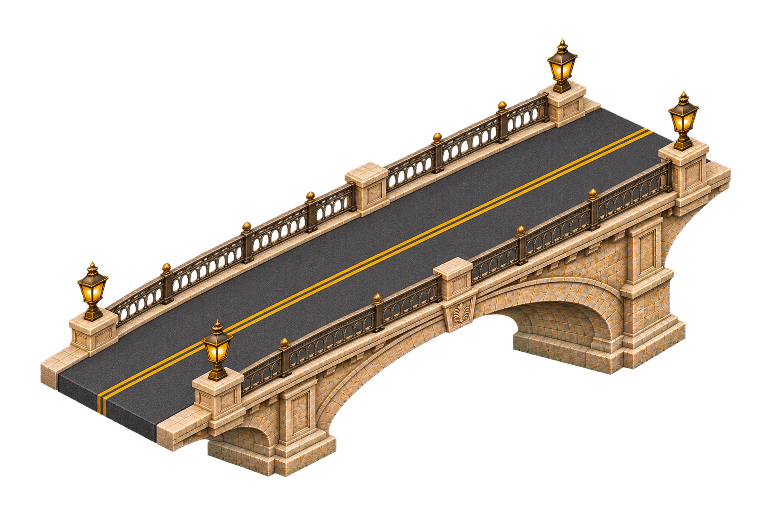
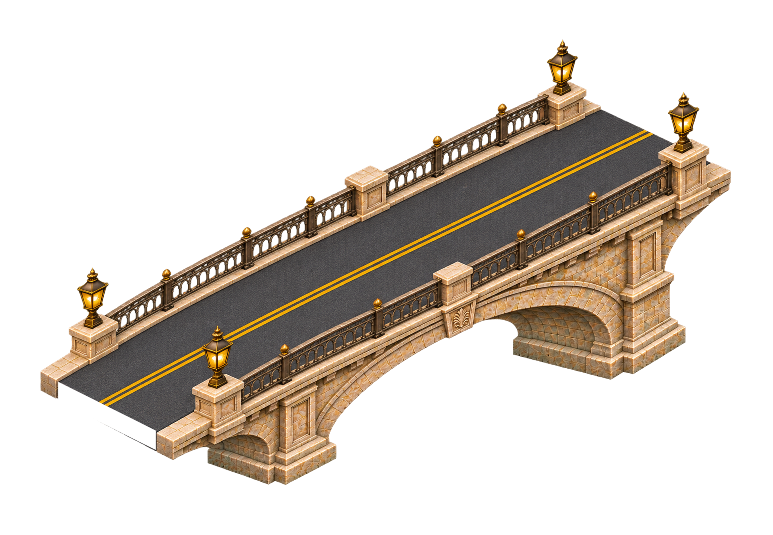
fix(city): connect painted bridge decks with sloped approaches

diff --git a/src/renderers/city-bridges.ts b/src/renderers/city-bridges.ts
@@ -1,5 +1,45 @@
 import { sampleCityBridge, type CityBridge } from './city-road-network';
 
+export const CITY_PAINTED_BRIDGE_ELEVATION=.18;
+export const CITY_PAINTED_BRIDGE_APPROACH=.8;
+
+/** 引桥从年度大道外侧路缘起坡，终点与精绘桥面的高度及轴线一致。 */
+export function createCityBridgeApproachPainter(bridges:readonly CityBridge[]):(context:CanvasRenderingContext2D)=>void {
+  const commands:{path:Path2D;color:string;width?:number}[]=[];
+  for(const bridge of bridges)for(const near of [false,true]){
+    const [x,z]=near?bridge.to:bridge.from;
+    const point=(t:number,offset:number,ground=false):[number,number]=>{
+      const along=near?z+t*CITY_PAINTED_BRIDGE_APPROACH:z+(t-1)*CITY_PAINTED_BRIDGE_APPROACH;
+      const blend=t*t*(3-2*t),height=ground?0:CITY_PAINTED_BRIDGE_ELEVATION*(near?1-blend:blend);
+      // 原画车行面略窄于季度路，坡道同时缓和车幅，避免接缝外露尖角。
+      const across=offset*(near?.875+.125*t:1-.125*t);
+      return [(x+across-along)*.5,(x+across+along)*.25-height*.5];
+    };
+    const times=[0,.125,.25,.375,.5,.625,.75,.875,1];
+    const path=(points:readonly [number,number][],color:string,width?:number)=>{
+      const shape=new Path2D();points.forEach((p,i)=>i?shape.lineTo(...p):shape.moveTo(...p));if(width===undefined)shape.closePath();commands.push({path:shape,color,width});
+    };
+    // 挡墙先于桥面，前侧浅石材分缝沿真实坡度收口。
+    for(const offset of [-.56,.56]){
+      path([...times.map(t=>point(t,offset,true)),...[...times].reverse().map(t=>point(t,offset))],offset>0?'#aa977d':'#8d8370');
+      for(const t of [.25,.5,.75])path([point(t,offset,true),point(t,offset)],'#d2bfa1',.009);
+    }
+    const deck=(left:number,right:number,color:string)=>path([...times.map(t=>point(t,left)),...[...times].reverse().map(t=>point(t,right))],color);
+    deck(-.56,.56,'#c5b397');deck(-.4,.4,'#626d68');
+    for(const offset of [-.49,.49])path(times.map(t=>point(t,offset)),'#e4d5bb',.045);
+    for(const offset of [-.355,.355])path(times.map(t=>point(t,offset)),'#e1dfd0',.013);
+    for(const offset of [-.025,.025])path(times.map(t=>point(t,offset)),'#d6b96d',.014);
+  }
+  return context=>{
+    context.save();context.setLineDash([]);context.lineJoin='round';
+    for(const {path,color,width}of commands){
+      if(width===undefined){context.fillStyle=color;context.fill(path)}
+      else {context.strokeStyle=color;context.lineWidth=width;context.stroke(path)}
+    }
+    context.restore();
+  };
+}
+
 /** 两端落在实际路口中心；季度轴不同时缓和过渡，桥头方向仍沿道路。 */
 export function createCityBridgePainter(bridges: readonly CityBridge[]): (context: CanvasRenderingContext2D) => void {
   const paint: ((context: CanvasRenderingContext2D) => void)[] = [];

diff --git a/src/renderers/city-organic-layout.ts b/src/renderers/city-organic-layout.ts
@@ -5,6 +5,7 @@ import { createCityRoadLabels, cityRoadLabelLength, type CityRoadLabel } from '.
 import { type CityVehicle, type CityVehicleKind } from './city-vehicles';
 import { planCityTransport, type CityTrafficSignal } from './city-transport';
 import type { CityBridge } from './city-road-network';
+import { createCityBridgeApproachPainter, CITY_PAINTED_BRIDGE_APPROACH } from './city-bridges';
 import { createCityRoadPainter, planRoadGeometry, type CityRoadRoute, type CityRoadJunction, type RoadPoint } from './city-roads';
 
 const DAY = 86400000;
@@ -224,7 +225,7 @@ export function planOrganicCity(days: readonly DailyContribution[], threshold: n
       const offset=(.2+.4*(seed%(road.lanes/2)))*direction;
       const x=a[0]+dx*fraction+dz/length*offset,z=a[1]+dz*fraction-dx/length*offset;
       if(junctions.some(j=>Math.hypot(j.x-x,j.z-z)<j.radius+.8)||
-        bridges.some(bridge=>Math.abs(x-bridge.from[0])<.8&&z>bridge.from[1]-.6&&z<bridge.to[1]+.6)||
+        bridges.some(bridge=>Math.abs(x-bridge.from[0])<.8&&z>bridge.from[1]-CITY_PAINTED_BRIDGE_APPROACH-.6&&z<bridge.to[1]+CITY_PAINTED_BRIDGE_APPROACH+.6)||
         labels.some(label=>Math.hypot(label.x-x,label.z-z)<cityRoadLabelLength(label.text,label.kind)/2+.65)||
         vehicles.some(v=>Math.hypot(v.x-x,v.z-z)<1.1))continue;
       vehicles.push({x,z,angle:Math.atan2(dz,dx)+(direction===-1?Math.PI:0),kind:kinds[(seed+(direction===1?0:1))%4],color:colors[seed%colors.length]});
@@ -381,6 +382,7 @@ export function createOrganicGround(plan: OrganicCity): (context: CanvasRenderin
   });
   const paintLabels=createCityRoadLabels(plan.labels);
   const paintRoads=createCityRoadPainter(plan.scene.roadNetwork.roads,plan.scene.roadNetwork.junctions);
+  const paintApproaches=createCityBridgeApproachPainter(plan.scene.roadNetwork.bridges);
   const water=plan.rivers.map(({left,right,z,top,bottom})=>{
     const half=(bottom-top)/2-.8,samples=Array.from({length:Math.ceil((right-left)*4)+1},(_,i)=>{
       const x=left+(right-left)*i/Math.ceil((right-left)*4),wave=.06*Math.sin(x*1.7+z);
@@ -416,6 +418,7 @@ export function createOrganicGround(plan: OrganicCity): (context: CanvasRenderin
       context.fillStyle='#b2b49a';context.fill(river.stones);
     }
     paintRoads(context);
+    paintApproaches(context);
     paintLabels(context);
     context.restore();
   };

diff --git a/src/renderers/city-view.ts b/src/renderers/city-view.ts
@@ -14,7 +14,7 @@ import { createCityOutskirtsPainter, CITY_OUTSKIRT_MARGIN, CITY_OUTSKIRT_IDS } f
 import type { LandscapeView, LandscapeViewport } from './types';
 
 const project=(x:number,z:number):[number,number]=>[(x-z)*.5,(x+z)*.25];
-export interface CitySceneItem { parcel?:CityParcel; id:string; factor:number; x:number; z:number; w:number; d:number; flat:boolean }
+export interface CitySceneItem { parcel?:CityParcel; id:string; factor:number; x:number; z:number; w:number; d:number; flat:boolean; elevation?:number }
 export interface CityScene { weekly:WeeklyCity; layout:CityLayout; items:CitySceneItem[]; keys:string[]; parkStarts:number[]; width:number; depth:number; roadNetwork:CityRoadNetwork }
 
 /** 数据/占地与素材选择只在创建时确定，观看缩放不改变城市。 */
@@ -72,7 +72,7 @@ export function createCityView(scene:CityScene,images:CityImages,previouslyRevea
     if(progressive&&!sprite)return [];
     const offsetX=(item.w-sprite.nativeWidth*item.factor)/2,offsetZ=(item.d-sprite.nativeDepth*item.factor)/2;
     const [x,y]=project(item.x+offsetX,item.z+offsetZ);
-    const left=x+sprite.left*item.factor,top=y+sprite.top*item.factor;
+    const left=x+sprite.left*item.factor,top=y+sprite.top*item.factor-(item.elevation??0)*.5;
     // 所有成员已在本批真实days中，融合地块按首个成员进入呈现前缀时整体出现。
     return [{item,sprite,left,top,width:sprite.width*item.factor,height:sprite.height*item.factor,groundY:project(item.x+item.w/2,item.z+item.d/2)[1],after:progressive&&item.parcel?Math.min(...item.parcel.indices)+1:0}];
   }).sort((a,b)=>a.groundY-b.groundY||a.left-b.left);

diff --git a/src/renderers/city-transport.ts b/src/renderers/city-transport.ts
@@ -2,6 +2,7 @@ import catalog from './city-baked-catalog.json';
 import type { CitySceneItem } from './city-view';
 import type { CityVehicle } from './city-vehicles';
 import type { CityBridge } from './city-road-network';
+import { CITY_PAINTED_BRIDGE_ELEVATION } from './city-bridges';
 
 export interface CityTrafficSignal {x:number;z:number;heads:('x'|'z')[]}
 
@@ -18,6 +19,6 @@ export function planCityTransport(vehicles:readonly CityVehicle[],signals:readon
       return item(`transport-${vehicle.kind}-${['xp','zp','xm','zm'][angle]}`,vehicle.x,vehicle.z);
     }),
     ...signals.map(signal=>item(`transport-signal-${signal.heads.length>1?'dual':signal.heads[0]}`,signal.x,signal.z)),
-    ...bridges.map(bridge=>item('transport-bridge-arch',(bridge.from[0]+bridge.to[0])/2,(bridge.from[1]+bridge.to[1])/2)),
+    ...bridges.map(bridge=>({...item('transport-bridge-arch',(bridge.from[0]+bridge.to[0])/2,(bridge.from[1]+bridge.to[1])/2),elevation:CITY_PAINTED_BRIDGE_ELEVATION})),
   ];
 }

diff --git a/docs/reports/CITY-ORGANIC-LAYOUT.md b/docs/reports/CITY-ORGANIC-LAYOUT.md
@@ -1,7 +1,37 @@
 # 城市轮廓与长期空档分城候选报告
 
 
-## 2026-11-06 完整季度路名与精绘交通设施（最新，本机待浏览器验收）
+## 2026-11-06 桥头标定与双端引桥（最新，本机待浏览器验收）
+
+本轮修复用户看到的桥路接口和引桥缺失问题，沿用[PR #63](https://github.com/wxy/CodeYears/pull/63)，前序fee56d4；本机组合保留PR #65的680b14e。前轮“桥头已接齐”的离线判断不足，不作为本轮通过证据。
+
+### 原因与修改
+
+旧代码只将PNG两个锚点贴到地面道路轴，没有桥面抬升或引桥；近端锚点(233,650)还落在原图车行面竖直封口上，而不是上沿。放大原始1774×887桥图后，重新选取双黄线在桥面上沿转折间的(230,638)。原画向下延伸的封口会遮住坡道，当前在素材烘焙时按nearEndFace四点裁去车行面封口，保留侧墙、石材与栏杆；精绘源PNG未改写，坐标与裁切集中在正式calibration.json。
+
+桥场景项明确抬升0.18世界单位，精绘PNG和引桥共用同一高度。两端各0.8格引桥从年度大道外侧路缘起坡，连接抬升的桥面；三次缓和曲线使两头坡度回到水平，车幅从原路缓和到桥面略窄的宽度，带沥青、双黄线、边线、石缘和挡墙分缝。引桥路径在创建地面绘制器时一次准备，与道路进入既有底面缓存；没有渲染后的二次布局。静态车辆避让范围扩展到完整引桥。
+
+贡献日期/地块、年度共用道路、河岸、路名、汽车和信号灯源图不变。只有桥项使用新增elevation；其他场景项仍按0高度绘制。没有新增资源请求、PNG数量、定时器、动画或运行依赖。
+
+### 实际验证与边界
+
+`npm run check`、组合`npm run build -- --outDir <task_tmp>/dist`和`git diff --check`通过。图像重做沿用`node scripts/bake-city-transport.mjs --outDir <task_tmp>/baked --canvasModule <installed @napi-rs/canvas>/index.js`，20张PNG重载RGBA差异0；19张车辆/灯具PNG与正式版本逐字节相同，仅桥图重烘焙。
+
+直接画面复核沿用正式planOrganicCity/createOrganicGround/createCityView、正式PNG和本机Skia Canvas，1400×900、DPR1.5；使用上一节同一ISO输入（末年2025，count=1+i×7%19，90天阈值，命名起点2006）。6年2191天/21904次，3桥/6条引桥；20年7301天/72997次，9桥/18条引桥。前后道路几何JSON及全部贡献地块JSON逐字节一致，日期唯一覆盖、贡献合计守恒。逐个引桥占地矩形与全部贡献地块检查，正面积重叠0；它们只到达年度街区边界。
+
+实际查看了完整街景全景/近景，以及临时隐藏贡献建筑的无遮挡桥头诊断视图，检查两端封口、落地、黄线/边线连续、石缘和前后遮挡。隐藏只发生在临时诊断视图，不修改正式规划或输入。没有新增单元测试。该复核不是Chrome/MV3端到端、真实用户数据或硬件预算通过。
+
+本轮浏览器控制工具在启动阶段因可写根路径包含符号链接而退出，未连接到用户浏览器；没有修改Codex设置或绕过控制工具。真实GitHub页面的接口观感、缩放/缓存往返和性能仍待本机浏览器验收。前轮授权阶段拒绝记录为历史状态，不冒充本轮失败原因。
+
+### 本机安装
+
+94份组合构建文件与本机dist对应文件逐一SHA256一致，本轮仅替换landscape.js与transport-bridge-arch.png，19张车辆/灯具、content.js、entry.js、manifest、权限和版本0.1.1不变。桥运行图406,781 bytes，较前轮增加194 bytes；landscape94.94kB/gzip29.25kB。源图和运行素材仍为正式产品资产。
+
+landscape SHA256：83b2bab618cea4c736047896a983f9ffa2780107fe9c7781cb102c6cb4a3f76c；桥PNG：0621976976f893cb5f53df46a874246ee641ff077e85f8546b9cf9f751249bcc。重载已有扩展、刷新GitHub，选至少6年，在河带季度路桥头查看双端引桥；无需清贡献缓存。临时图像、脚本、输入、完整输出和构建在报告完成后删除，只保留正式源码/资产/标定/报告及用户在用的dist与预览。
+
+
+
+## 2026-11-06 完整季度路名与精绘交通设施（前轮版本）
 
 根据用户本轮反馈，将窄季度路改为完整名称并居中清线；车辆、信号灯和桥梁采用与建筑同一透明PNG流程。继续更新[PR #63](https://github.com/wxy/CodeYears/pull/63)，以3aa2437为前序；本机保留PR #65的680b14e并行读取/缓存逻辑。已安装dist，未合入或发布；以下离线画面证据不等于真实GitHub浏览器验收。
 

diff --git a/docs/design/city-transport/README.md b/docs/design/city-transport/README.md
@@ -26,7 +26,7 @@
 
 ## 可重复烘焙
 
-标定参数集中在 `v1/calibration.json`。保留源 PNG，不直接覆盖；低于32的 alpha 清零后裁切/缩放，车辆最长内容边最多256像素、信号灯384、桥768，透明边另留2像素。桥体以两个道路端点和横向坡度校正投影。PNG 导出后重新解码，RGBA 必须逐字节一致，否则停止。
+标定参数集中在 `v1/calibration.json`。保留源 PNG，不直接覆盖；低于32的 alpha 清零后裁切/缩放，车辆最长内容边最多256像素、信号灯384、桥768，透明边另留2像素。桥体以两个桥面上沿端点和横向坡度校正投影；nearEndFace四点只去除近端车行面竖直封口，避免遮住引桥，源图保留不变。运行中桥面抬升0.18世界单位，两端各0.8格带石缘的缓坡落回年度大道路缘，与桥项共用高度常量（city-bridges.ts）。PNG 导出后重新解码，RGBA 必须逐字节一致，否则停止。
 
 在具有 `@napi-rs/canvas` 的本机环境执行，输出写入系统任务临时目录；该库仅用于素材制作，不增加扩展或项目运行依赖：
 
